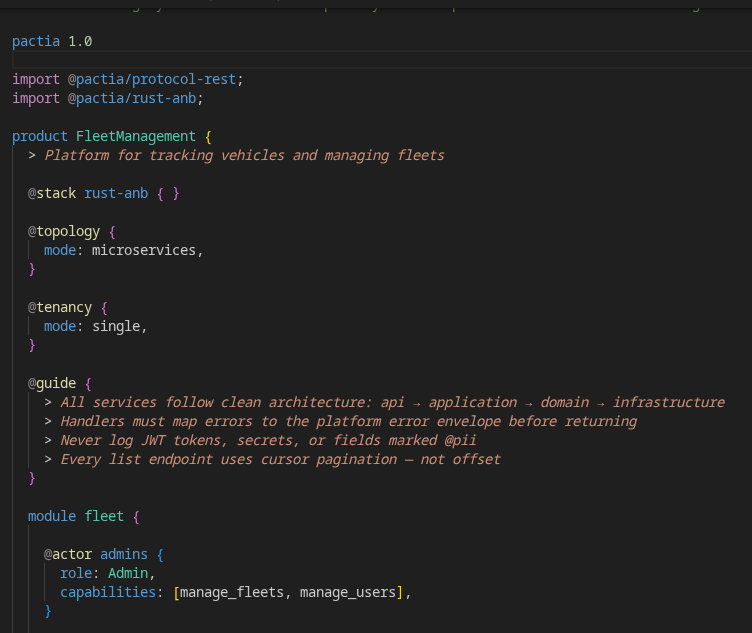
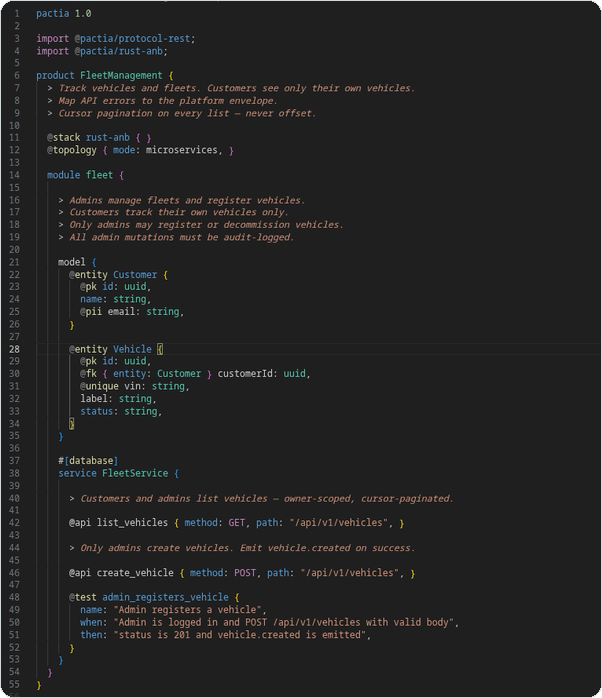
Bake screenshot border into PNG for GitHub org profile

Changed region(s): [[0.0, 0.0, 1.0, 1.0], [0.3588, 0.5103, 0.5083, 0.5403]]

diff --git a/profile/README.md b/profile/README.md
@@ -77,7 +77,7 @@ Immutable versions. Digest-pinned lockfiles. Publisher identity. **Users fork pa
 
 ## See it
 
-Fleet management in **Pactia 1.0** — prose, packages, model, API, tests, and events in **78 lines**:
+Fleet management in **Pactia 1.0** — mostly prose, with tags only where structure matters (**55 lines**):
 
 <details>
 <summary><strong>fleet-management-mini.pactia</strong> — simplified whole product</summary>
@@ -90,31 +90,24 @@ import @pactia/rust-anb;
 
 product FleetManagement {
   > Track vehicles and fleets. Customers see only their own vehicles.
+  > Map API errors to the platform envelope.
+  > Cursor pagination on every list — never offset.
 
   @stack rust-anb { }
   @topology { mode: microservices, }
 
-  @guide {
-    > Map API errors to the platform envelope
-    > Cursor pagination on every list — never offset
-  }
-
   module fleet {
 
-    @actor admins { role: Admin, capabilities: [manage_fleets], }
-    @actor customers { role: Customer, capabilities: [track_vehicles], }
-
-    @rule admin_only_register {
-      > Only admins may register or decommission vehicles.
-    }
+    > Admins manage fleets and register vehicles.
+    > Customers track their own vehicles only.
+    > Only admins may register or decommission vehicles.
+    > All admin mutations must be audit-logged.
 
     model {
-      @enum VehicleStatus { values: [ACTIVE, INACTIVE, DECOMMISSIONED], }
-
       @entity Customer {
         @pk id: uuid,
         name: string,
-        @pii @unique email: string,
+        @pii email: string,
       }
 
       @entity Vehicle {
@@ -122,30 +115,19 @@ product FleetManagement {
         @fk { entity: Customer } customerId: uuid,
         @unique vin: string,
         label: string,
-        status: VehicleStatus,
-      }
-
-      @entity CreateVehicleRequest { customerId: uuid, vin: string, label: string, }
-
-      @entity VehicleCreatedPayload { vehicleId: uuid, vin: string, }
-
-      @relation customer_owns_vehicles {
-        from: Customer, to: Vehicle, verb: owns, cardinality: many,
+        status: string,
       }
     }
-
-    @security fleet { > All admin mutations must be audit-logged }
 
     #[database]
     service FleetService {
 
-      @auth { roles: [Customer, Admin] }
-      #[list] #[paginated] #[owner]
+      > Customers and admins list vehicles — owner-scoped, cursor-paginated.
+
       @api list_vehicles { method: GET, path: "/api/v1/vehicles", }
 
-      @auth { roles: [Admin] }
-      #[create] @status 201 @emit vehicle.created
-      @input CreateVehicleRequest
+      > Only admins create vehicles. Emit vehicle.created on success.
+
       @api create_vehicle { method: POST, path: "/api/v1/vehicles", }
 
       @test admin_registers_vehicle {
@@ -154,11 +136,6 @@ product FleetManagement {
         then: "status is 201 and vehicle.created is emitted",
       }
     }
-
-    @event vehicle.created {
-      payload: VehicleCreatedPayload,
-      > Fired when a vehicle is registered
-    }
   }
 }
 ```
@@ -166,12 +143,12 @@ product FleetManagement {
 </details>
 
 <p align="center">
-  <img
-    src="./assets/fleet-management-example.png"
-    alt="Pactia example: FleetManagement product with @stack, @topology, @tenancy, @guide, and fleet module @actor"
-    width="720"
-    style="border: 1px solid #d1d9e0; border-radius: 12px; max-width: 100%;"
-  />
+  <a href="./assets/fleet-management-example.png">
+    <img
+      src="./assets/fleet-management-example.png"
+      alt="Pactia 1.0 mini example: FleetManagement with prose rules, @stack, model entities, APIs, and @test"
+    />
+  </a>
 </p>
 
 <p align="center">